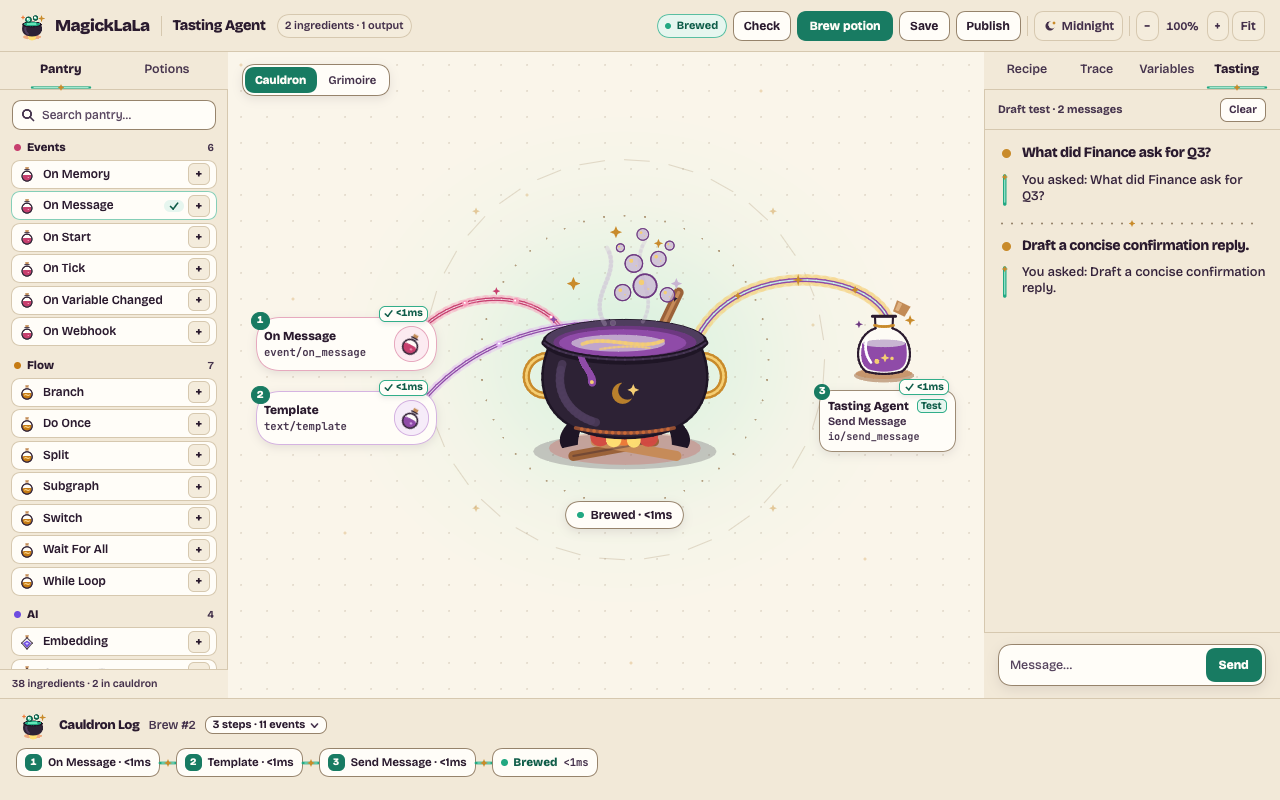
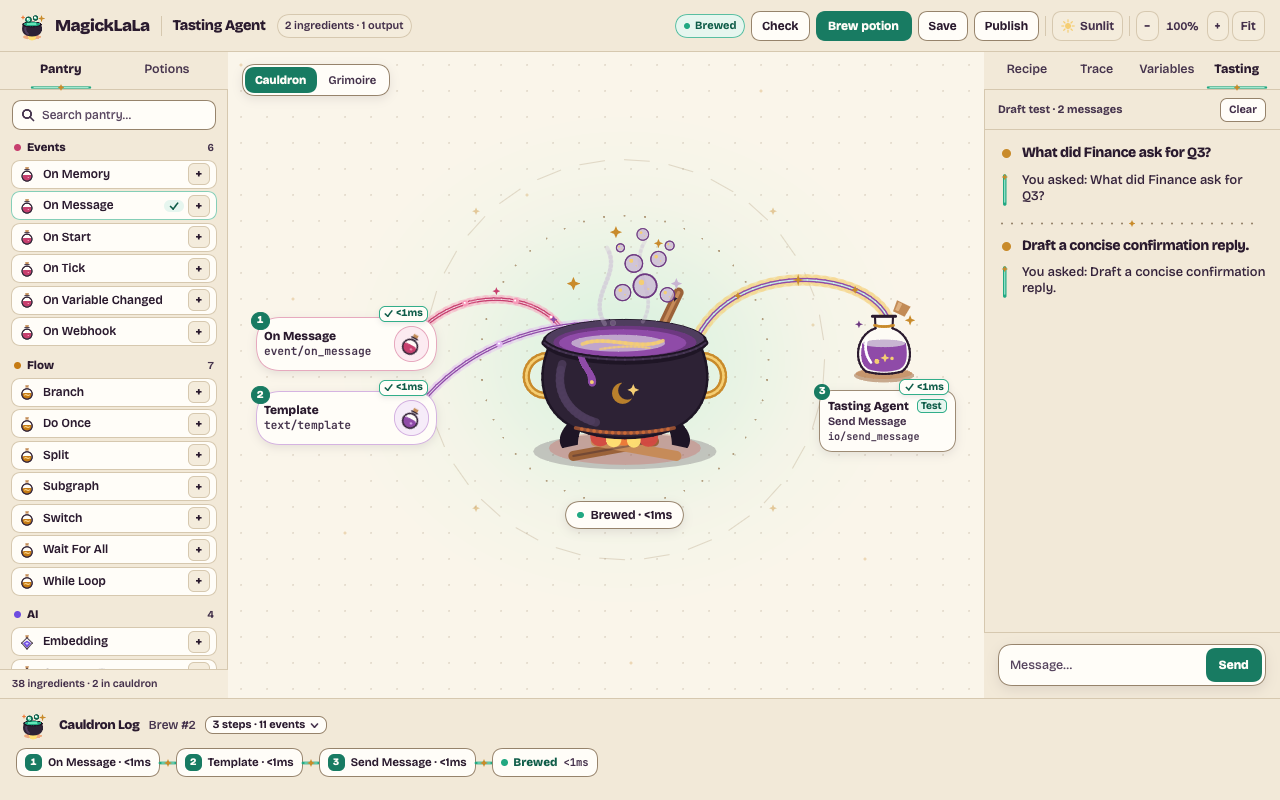
fix(studio,canvas): strands are thin coloured lines clear of every card and travel above the pot-to-bottle pour, the empty pot ring sits below the mode switch, narrow vials keep a whole formula line with layouts chosen for legibility first, Publish is disabled mid-brew, messages read as sentences ab

Changed region(s): [[0.5312, 0.0, 0.875, 0.0625], [0.2188, 0.5312, 0.2812, 0.5625], [0.2188, 0.4375, 0.2812, 0.4688]]

diff --git a/crates/magicklala-studio/src/view.rs b/crates/magicklala-studio/src/view.rs
@@ -153,7 +153,8 @@ fn context_menu(app: &StudioApp, t: &HearthPalette) -> Option<El> {
     });
     let [px, py] = beside.unwrap_or(anchor);
     let x = px.min(view.0 - CONTEXT_MENU_SIZE.0 - 12.0).max(12.0);
-    let y = py.min(view.1 - CONTEXT_MENU_SIZE.1 - 12.0).max(12.0);
+    let plaque_top = if app.canvas.mode == WorkbenchMode::Cauldron { magicklala_canvas::brew_plan(&app.canvas, view).plaque_top } else { view.1 };
+    let y = py.min(view.1 - CONTEXT_MENU_SIZE.1 - 12.0).min(plaque_top - CONTEXT_MENU_SIZE.1 - 8.0).max(12.0);
     let selected_card = app.canvas.selected_card();
     let selected_title = selected_card.map(|card| card.title.as_str());
     let quick_add_title = app.specs.iter().find(|spec| spec.kind == QUICK_ADD_KIND).map_or(QUICK_ADD_KIND, |spec| spec.title.as_str());
@@ -409,9 +410,9 @@ fn toolbar(app: &StudioApp, t: &HearthPalette) -> El {
     let published_unchanged = app.is_unchanged_from_live_release();
     let check_kind = if empty_graph { ButtonKind::Disabled } else { ButtonKind::Secondary };
     let brew_kind = if empty_graph || hexed { ButtonKind::Disabled } else { ButtonKind::Primary };
-    let bottle_kind = if empty_graph || hexed || published_unchanged { ButtonKind::Disabled } else { ButtonKind::Secondary };
+    let bottle_kind = if empty_graph || hexed || published_unchanged || app.is_running() { ButtonKind::Disabled } else { ButtonKind::Secondary };
     let save_kind = if empty_graph { ButtonKind::Disabled } else { ButtonKind::Secondary };
-    let theme_caption = if app.theme == Theme::Dark { "Sunlit" } else { "Midnight" };
+    let theme_caption = if app.theme == Theme::Dark { "Midnight" } else { "Sunlit" };
     let theme_a11y = if app.theme == Theme::Dark { "Switch to Sunlit" } else { "Switch to Midnight" };
     let theme_btn = if compact {
         row()
@@ -424,7 +425,7 @@ fn toolbar(app: &StudioApp, t: &HearthPalette) -> El {
             .justify_center()
             .fill(t.wash_2)
             .border(1.0, t.rule)
-            .child(canvas(theme_icon_shape(app.theme == Theme::Dark, light)).size(14.0, 14.0))
+            .child(canvas(theme_icon_shape(app.theme == Theme::Light, light)).size(14.0, 14.0))
             .on_press(StudioApp::toggle_theme)
     } else {
         row()
@@ -438,7 +439,7 @@ fn toolbar(app: &StudioApp, t: &HearthPalette) -> El {
             .items_center()
             .fill(t.wash_2)
             .border(1.0, t.rule)
-            .child(canvas(theme_icon_shape(app.theme == Theme::Dark, light)).size(14.0, 14.0))
+            .child(canvas(theme_icon_shape(app.theme == Theme::Light, light)).size(14.0, 14.0))
             .child(label(theme_caption, 12.0, 650.0, t.ink_2))
             .on_press(StudioApp::toggle_theme)
     };
@@ -801,14 +802,14 @@ fn agents_and_releases(app: &StudioApp, light: bool, t: &HearthPalette) -> El {
     let spell_invalid = matches!(app.validation, ValidationState::Invalid(_));
     let ingr_count = app.canvas.nodes.iter().filter(|card| card.kind != "io/send_message").count();
     let ingr_word = if ingr_count == 1 { "ingredient" } else { "ingredients" };
-    let spells_header = row()
-        .w_full()
-        .pt(14.0)
-        .pb(6.0)
-        .items_center()
-        .justify_between()
-        .child(heading("Spells & potions", 14.5, 800.0, t.ink))
-        .child(button_el("new-spell", "+ New", ButtonKind::Secondary, 9.0, t, StudioApp::request_new_spell));
+    let spells_header = row().w_full().pt(14.0).pb(6.0).items_center().justify_between().child(heading("Potions", 14.5, 800.0, t.ink)).child(button_el(
+        "new-spell",
+        "+ New",
+        ButtonKind::Secondary,
+        9.0,
+        t,
+        StudioApp::request_new_spell,
+    ));
     let mut agent_names: Vec<String> = Vec::new();
     if app.spell.name != "Support Agent" && app.spell.name != "Research Agent" {
         agent_names.push(app.spell.name.clone());
@@ -984,7 +985,6 @@ fn agents_and_releases(app: &StudioApp, light: bool, t: &HearthPalette) -> El {
         let is_pending = app.pending_restore_version == Some(release.version);
         let parts = release.nodes.saturating_sub(1).max(1);
         let p_word = if parts == 1 { "ingredient" } else { "ingredients" };
-        let sub_meta = app.release_notes.get(&release.version).cloned().unwrap_or_else(|| format!("{parts} {p_word}"));
         let stamp = el().size(28.0, 24.0).radius(8.0).continuous_corners().fill(if is_active { t.primary_bg } else { t.wash }).center().child(figure(
             format!("v{}", release.version),
             10.5,
@@ -1012,8 +1012,8 @@ fn agents_and_releases(app: &StudioApp, light: bool, t: &HearthPalette) -> El {
                         .grow(1.0)
                         .min_w(0.0)
                         .gap(1.0)
-                        .child(label(if is_active { "Published brew" } else { "Archived brew" }, 11.2, 650.0, t.ink).truncate())
-                        .child(label(sub_meta, 9.8, 500.0, t.mute).truncate()),
+                        .child(label(format!("{parts} {p_word}"), 11.2, 650.0, t.ink).truncate())
+                        .children(app.release_notes.get(&release.version).map(|note| label(note, 9.8, 500.0, t.mute).truncate())),
                 ),
             )
             .child(right_action);
@@ -1945,7 +1945,7 @@ fn trace_strip(app: &StudioApp, t: &HearthPalette) -> El {
     let event_word = if count == 1 { "event" } else { "events" };
     if idle {
         let run_hint = if app.canvas.nodes.is_empty() {
-            "Idle · no brews yet.".to_owned()
+            "Not brewed yet".to_owned()
         } else if let Some(v) = app.active_release_version {
             format!("Published v{v} · not brewed yet")
         } else {

diff --git a/crates/magicklala-canvas/src/cauldron.rs b/crates/magicklala-canvas/src/cauldron.rs
@@ -156,8 +156,11 @@ fn drips(state: &CanvasState, plan: &BrewPlan, mood: CauldronMood, p: &HearthPal
 
 fn vial_mouth(placed: &BrewCard, plan: &BrewPlan) -> [f32; 2] {
     let scale = placed.rect[3] / plan.vial[1];
-    let badge = if plan.vial[1] < 50.0 { 30.0 } else { 38.0 };
-    let center = [placed.rect[0] + placed.rect[2] - (9.0 + badge * 0.5) * scale, placed.rect[1] + placed.rect[3] * 0.5];
+    let dense = plan.vial[1] < 50.0;
+    let narrow = plan.vial[0] < 170.0;
+    let badge = if dense || narrow { 30.0 } else { 38.0 };
+    let centre_y = if narrow && !dense { placed.rect[1] + ((plan.vial[1] - 46.0) * 0.5 + 15.0) * scale } else { placed.rect[1] + placed.rect[3] * 0.5 };
+    let center = [placed.rect[0] + placed.rect[2] - (9.0 + badge * 0.5) * scale, centre_y];
     [center[0] + badge * 0.22 * scale, center[1] - badge * 0.36 * scale]
 }
 
@@ -178,11 +181,15 @@ pub fn pour_paths(state: &CanvasState, plan: &BrewPlan) -> Vec<(NodeId, Vec<[f32
                     let mates = ingredients.iter().filter(|other| (other.rect[0] - placed.rect[0]).abs() < 1.0).count().max(1);
                     let rank = ingredients.iter().filter(|other| (other.rect[0] - placed.rect[0]).abs() < 1.0 && other.rect[1] < placed.rect[1] - 0.5).count();
                     let offset = (mates as f32 - 1.0) * 0.5 - rank as f32;
-                    let strand = (gap * 0.8 / mates as f32).min(4.0 * plan.scale);
+                    let strand = (gap * 0.4 / mates as f32).min(3.0 * plan.scale);
                     let lane_x = placed.rect[0] + placed.rect[2] + gap * 0.5 + offset * strand;
                     let share = column as f32 / (columns.len().max(2) - 1) as f32;
                     let to = rim_point(plan, (share + offset * 0.035).clamp(0.0, 1.0));
-                    let turn = [lane_x, shelf_bottom + gap];
+                    let ribbon_top = ribbon_paths(plan).iter().flatten().map(|point| point[1]).fold(f32::MAX, f32::min);
+                    let turn = [lane_x, (shelf_bottom + gap).min(ribbon_top - 8.0 * plan.scale).max(shelf_bottom + 2.0 * plan.scale)];
+                    let clear_x = lane_x.min(spout_point(plan)[0] - 10.0 * plan.scale).max(to[0]);
+                    let run = lane_x - clear_x;
+                    let elbow = if run > 1.0 { (8.0 * plan.scale).min(run * 0.5).min((turn[1] - from[1]).abs() * 0.3) } else { 0.0 };
                     let bend = (8.0 * plan.scale).min((lane_x - from[0]).abs() * 0.8).min((turn[1] - from[1]).abs() * 0.5);
                     let side = if lane_x >= from[0] { 1.0 } else { -1.0 };
                     let corner = [lane_x - side * bend, from[1]];
@@ -192,15 +199,27 @@ pub fn pour_paths(state: &CanvasState, plan: &BrewPlan) -> Vec<(NodeId, Vec<[f32
                         let u = 1.0 - t;
                         [u * u * corner[0] + 2.0 * u * t * lane_x + t * t * lane_x, u * u * from[1] + 2.0 * u * t * from[1] + t * t * (from[1] + bend)]
                     }));
-                    points.extend((1..=12).map(|step| [lane_x, from[1] + bend + (turn[1] - from[1] - bend) * step as f32 / 12.0]));
+                    let drop_end = turn[1] - elbow;
+                    points.extend((1..=12).map(|step| [lane_x, from[1] + bend + (drop_end - from[1] - bend) * step as f32 / 12.0]));
+                    let start = if run > 1.0 {
+                        points.extend((1..=6).map(|step| {
+                            let t = step as f32 / 6.0;
+                            let u = 1.0 - t;
+                            [u * u * lane_x + 2.0 * u * t * lane_x + t * t * (lane_x - elbow), u * u * drop_end + 2.0 * u * t * turn[1] + t * t * turn[1]]
+                        }));
+                        points.extend((1..=6).map(|step| [lane_x - elbow + (clear_x - lane_x + elbow) * step as f32 / 6.0, turn[1]]));
+                        [clear_x, turn[1]]
+                    } else {
+                        turn
+                    };
                     points.extend((1..=16).map(|step| {
                         let t = step as f32 / 16.0;
-                        let c1 = [to[0] + (lane_x - to[0]) * 0.35, turn[1]];
-                        let c2 = [to[0], turn[1] + (to[1] - turn[1]) * 0.4];
+                        let c1 = [to[0] + (start[0] - to[0]) * 0.35, start[1]];
+                        let c2 = [to[0], start[1] + (to[1] - start[1]) * 0.4];
                         let u = 1.0 - t;
                         [
-                            u * u * u * turn[0] + 3.0 * u * u * t * c1[0] + 3.0 * u * t * t * c2[0] + t * t * t * to[0],
-                            u * u * u * turn[1] + 3.0 * u * u * t * c1[1] + 3.0 * u * t * t * c2[1] + t * t * t * to[1],
+                            u * u * u * start[0] + 3.0 * u * u * t * c1[0] + 3.0 * u * t * t * c2[0] + t * t * t * to[0],
+                            u * u * u * start[1] + 3.0 * u * u * t * c1[1] + 3.0 * u * t * t * c2[1] + t * t * t * to[1],
                         ]
                     }));
                     points
@@ -226,13 +245,8 @@ fn lane_stream(shape: Shape, points: &[[f32; 2]], style: StreamStyle, p: &Hearth
     } else {
         style.color
     };
-    let core = if style.active { 3.2 } else { 2.4 };
-    let shape = shape.stroke_path(
-        &path,
-        core + 4.0,
-        rune::LineCap::Round,
-        with_alpha(if style.active { style.glow } else { ink }, if style.active { 0.32 } else { 0.16 }),
-    );
+    let core = if style.active { 2.6 } else { 2.0 };
+    let shape = if style.active { shape.stroke_path(&path, core + 3.0, rune::LineCap::Round, with_alpha(style.glow, 0.32)) } else { shape };
     shape.stroke_path(&path, core, rune::LineCap::Round, ink)
 }
 

diff --git a/crates/magicklala-canvas/src/view.rs b/crates/magicklala-canvas/src/view.rs
@@ -196,7 +196,8 @@ pub(crate) fn ingredient_vial_card<S: 'static>(
     let select_id = card.id.clone();
 
     let dense = dims[1] < 50.0;
-    let badge = if dense { 30.0 } else { 38.0 };
+    let narrow = dims[0] < 170.0;
+    let badge = if dense || narrow { 30.0 } else { 38.0 };
     let vial_badge = el()
         .key(format!("vial-{}", card.id.0))
         .size(badge, badge)
@@ -301,6 +302,20 @@ pub(crate) fn ingredient_vial_card<S: 'static>(
         p.mute
     };
 
+    let kind_line = text(&card.kind).font(TextStyle::new((11.2 / plan.scale).clamp(11.5, 13.0), 500.0).mono()).color(sub_color).truncate();
+    let card_body = if dense {
+        row().grow(1.0).min_w(0.0).gap(9.0).items_center().child(col().grow(1.0).min_w(0.0).child(top_row)).child(vial_badge)
+    } else if narrow {
+        col()
+            .grow(1.0)
+            .min_w(0.0)
+            .gap(2.0)
+            .child(row().w_full().gap(6.0).items_center().child(col().grow(1.0).min_w(0.0).child(top_row)).child(vial_badge))
+            .child(kind_line)
+    } else {
+        row().grow(1.0).min_w(0.0).gap(9.0).items_center().child(col().grow(1.0).min_w(0.0).gap(2.0).child(top_row).child(kind_line)).child(vial_badge)
+    };
+
     let content = row()
         .key(format!("node-{}-header", card.id.0))
         .size(dims[0], dims[1])
@@ -312,12 +327,7 @@ pub(crate) fn ingredient_vial_card<S: 'static>(
         .fill(fill_col)
         .border(border_w, border_col)
         .shadow(if card.selected { 5.0 } else { 3.0 }, if card.selected { 14.0 } else { 9.0 }, if dimmed { Color::TRANSPARENT } else { p.shadow_card })
-        .child(if dense {
-            col().grow(1.0).min_w(0.0).child(top_row)
-        } else {
-            col().grow(1.0).min_w(0.0).gap(2.0).child(top_row).child(text(&card.kind).font(TextStyle::new(11.5, 500.0).mono()).color(sub_color).truncate())
-        })
-        .child(vial_badge)
+        .child(card_body)
         .on_press(move |s: &mut S| lens(s).select(Some(select_id.clone())))
         .on_drag(move |s: &mut S, drag, tx| {
             tx.instant();
@@ -477,6 +487,17 @@ pub fn bottle_art_mood(state: &CanvasState, output: &NodeCardModel) -> CauldronM
         CauldronMood::Brewed | CauldronMood::Simmering if !crate::cauldron::bottle_filled(state, output) => CauldronMood::Ready,
         mood => mood,
     }
+}
+
+pub fn grimoire_lanes(state: &CanvasState) -> Vec<(magicklala_graph::WireId, i8)> {
+    let mut untaken: Vec<&crate::WireModel> = state.wires.iter().filter(|wire| state.has_run() && !wire.active && wire.ty.is_flow()).collect();
+    untaken.sort_by(|a, b| a.from_node.0.cmp(&b.from_node.0).then(b.from[1].total_cmp(&a.from[1])));
+    let mut lanes = Vec::with_capacity(untaken.len());
+    for (index, wire) in untaken.iter().enumerate() {
+        let rank = untaken[..index].iter().filter(|other| other.from_node == wire.from_node).count();
+        lanes.push((wire.id.clone(), if rank % 2 == 0 { 1 } else { -1 }));
+    }
+    lanes
 }
 
 fn bottle_hex_pill(card: &NodeCardModel, p: &HearthPalette) -> Option<El> {
@@ -781,18 +802,12 @@ fn wire_shape(state: &CanvasState) -> Shape {
             (false, true) => 3,
         }
     });
-    let mut untaken_flow_count = 0_i8;
+    let lanes = grimoire_lanes(state);
     let shape = ordered.into_iter().fold(Shape::new(), |shape, (_, wire)| {
         let from = state.camera.world_to_screen(wire.from);
         let to = state.camera.world_to_screen(wire.to);
         let untaken = has_run && !wire.active;
-        let lane = if untaken && wire.ty.is_flow() {
-            let idx = untaken_flow_count;
-            untaken_flow_count += 1;
-            if idx % 2 == 0 { 1 } else { -1 }
-        } else {
-            0
-        };
+        let lane = lanes.iter().find(|(id, _)| id == &wire.id).map_or(0, |(_, lane)| *lane);
         grimoire_wire_shape(shape, from, to, WireStyle { zoom, is_flow: wire.ty.is_flow(), active: wire.active, untaken, light: state.light, lane })
     });
     match &state.drag {

diff --git a/crates/magicklala-canvas/src/brew.rs b/crates/magicklala-canvas/src/brew.rs
@@ -231,20 +231,27 @@ const ROOMY: Metrics = Metrics {
     bottle_gap: BOTTLE_GAP,
 };
 const CROWDED: Metrics =
-    Metrics { vial: [160.0, 42.0], pot: [250.0, 242.0], row_gap: 12.0, col_gap: 14.0, shelf_to_pot: 40.0, pot_to_bottles: 44.0, bottle_gap: 10.0 };
+    Metrics { vial: [160.0, 54.0], pot: [250.0, 242.0], row_gap: 12.0, col_gap: 14.0, shelf_to_pot: 40.0, pot_to_bottles: 44.0, bottle_gap: 10.0 };
+const TIGHT: Metrics = Metrics { vial: [160.0, 42.0], ..CROWDED };
 const READABLE: f32 = 0.92;
+const LEGIBLE: f32 = 0.8;
 
 pub fn brew_plan(state: &CanvasState, size: (f32, f32)) -> BrewPlan {
     let roomy = plan_with(state, size, ROOMY);
     if roomy.0.min(1.0) >= READABLE {
         return roomy.1;
     }
-    let crowded = plan_with(state, size, CROWDED);
-    if crowded.0 >= READABLE {
-        return crowded.1;
-    }
-    let stacked = plan_stacked(state, size, Metrics { pot: [204.0, 198.0], ..CROWDED });
-    if stacked.0 > crowded.0 { stacked.1 } else { crowded.1 }
+    let candidates = [
+        plan_with(state, size, CROWDED),
+        plan_stacked(state, size, Metrics { pot: [204.0, 198.0], col_gap: 24.0, ..CROWDED }),
+        plan_with(state, size, TIGHT),
+        plan_stacked(state, size, Metrics { pot: [204.0, 198.0], ..TIGHT }),
+    ];
+    let first_at = |floor: f32| candidates.iter().position(|(fit, _)| *fit >= floor);
+    let pick = first_at(READABLE)
+        .or_else(|| first_at(LEGIBLE))
+        .unwrap_or_else(|| candidates.iter().enumerate().fold(0, |best, (index, (fit, _))| if *fit > candidates[best].0 { index } else { best }));
+    candidates.into_iter().nth(pick).map(|(_, plan)| plan).unwrap_or_else(|| plan_with(state, size, TIGHT).1)
 }
 
 fn plan_stacked(state: &CanvasState, size: (f32, f32), m: Metrics) -> (f32, BrewPlan) {
@@ -357,7 +364,8 @@ fn plan_with(state: &CanvasState, size: (f32, f32), m: Metrics) -> (f32, BrewPla
     let bottle_cols = bottles.len().max(1).div_ceil(bottle_rows_fit);
     let bottle_rows = bottles.len().max(1).div_ceil(bottle_cols);
     let bottles_h = stack_height(bottle_rows, bottle_size[1], m.bottle_gap);
-    let pot_block_h = m.pot[1] + if state.nodes.is_empty() { EMPTY_POT_ROOM } else { PLAQUE_ROOM };
+    let headroom = if state.nodes.is_empty() { (m.pot[0].max(m.pot[1]) * 0.72 - m.pot[1] * 0.5 + 12.0).max(0.0) } else { 0.0 };
+    let pot_block_h = headroom + m.pot[1] + if state.nodes.is_empty() { EMPTY_POT_ROOM } else { PLAQUE_ROOM };
     let block_h = shelf_h.max(pot_block_h).max(bottles_h);
     let pot_x = if cols == 0 { 0.0 } else { shelf_w + m.shelf_to_pot };
     let bottles_x = pot_x + m.pot[0] + m.pot_to_bottles;
@@ -407,7 +415,7 @@ fn plan_with(state: &CanvasState, size: (f32, f32), m: Metrics) -> (f32, BrewPla
         let y = aside_top + (index / aside_per_row) as f32 * (m.vial[1] + m.row_gap);
         cards.push(BrewCard { id: id.clone(), role: BrewRole::Aside, recipe_step: None, feeds_only: None, rect: to_screen(x, y, m.vial[0], m.vial[1]) });
     }
-    let pot = to_screen(pot_x, (block_h - pot_block_h) * 0.5, m.pot[0], m.pot[1]);
+    let pot = to_screen(pot_x, (block_h - pot_block_h) * 0.5 + headroom, m.pot[0], m.pot[1]);
     let ghost_bottle = bottles.is_empty().then(|| to_screen(bottles_x, (block_h - SINGLE_BOTTLE_SIZE[1]) * 0.5, SINGLE_BOTTLE_SIZE[0], SINGLE_BOTTLE_SIZE[1]));
     let plaque_top = pot[1] + pot[3] + 8.0 * scale;
     let aside_row_top = to_screen(0.0, aside_top, 0.0, 0.0)[1] - ASIDE_GAP * 0.5 * scale;

diff --git a/crates/magicklala-studio/src/lib.rs b/crates/magicklala-studio/src/lib.rs
@@ -1446,9 +1446,6 @@ impl StudioApp {
         if self.is_running() {
             return;
         }
-        if self.is_running() {
-            return;
-        }
         self.canvas.wires.retain(|candidate| &candidate.id != wire);
         self.validation = ValidationState::Unchecked;
         self.sync_spell();
@@ -2583,13 +2580,13 @@ impl StudioApp {
 
     fn require_disk(&mut self, action: &str) -> Result<(), StudioError> {
         if let Some(error) = &self.open_error {
-            let message = format!("the database passed with --db could not be opened: {error}");
+            let message = format!("The database passed with --db could not be opened: {error}");
             return Err(self.refuse(message));
         }
         if self.store.as_ref().is_some_and(StudioStore::is_persistent) {
             return Ok(());
         }
-        Err(self.refuse(format!("pass --db <file.sqlite> to {action} on disk")))
+        Err(self.refuse(format!("Pass --db <file.sqlite> to {action} on disk")))
     }
 
     pub fn next_release_version(&self) -> Result<u32, StudioError> {
@@ -2619,21 +2616,21 @@ impl StudioApp {
 
     pub fn explain_publish_blocked(&mut self) {
         if let ValidationState::Invalid(errors) = &self.validation {
-            let message = format!("cannot publish an invalid spell: {}", errors.join("; "));
+            let message = format!("Cannot publish an invalid potion: {}", errors.join("; "));
             self.store_error = Some(message);
         }
     }
 
     pub fn publish(&mut self) -> Result<u32, StudioError> {
         if self.is_running() {
-            return Err(self.refuse("cannot publish while brewing".to_owned()));
+            return Err(self.refuse("Publish waits until the brew ends".to_owned()));
         }
         self.sync_spell();
         if self.canvas.nodes.is_empty() {
-            return Err(self.refuse("cannot publish an empty potion".to_owned()));
+            return Err(self.refuse("Cannot publish an empty potion".to_owned()));
         }
         if self.is_unchanged_from_live_release() {
-            return Err(self.refuse("no changes since the live release".to_owned()));
+            return Err(self.refuse("No changes since the live release".to_owned()));
         }
         self.publish_status = None;
         self.require_disk("publish releases")?;
@@ -2643,7 +2640,7 @@ impl StudioApp {
         };
         let target = (self.root_spell(), Some(next));
         if let Err(errors) = self.check_spell_with_root(target) {
-            let message = format!("cannot publish an invalid spell: {}", errors.join("; "));
+            let message = format!("Cannot publish an invalid potion: {}", errors.join("; "));
             self.validation = ValidationState::Invalid(errors);
             return Err(self.refuse(message));
         }
@@ -2672,7 +2669,7 @@ impl StudioApp {
         self.require_disk("save drafts")?;
         let version_errors = self.release_version_errors();
         if !version_errors.is_empty() {
-            return Err(self.refuse(format!("cannot save the draft: {}", version_errors.join("; "))));
+            return Err(self.refuse(format!("Cannot save the draft: {}", version_errors.join("; "))));
         }
         let store = self.store.as_mut().ok_or_else(|| StudioError::Store("no studio store".to_owned()))?;
         let saved = store.save_draft(&self.spell);
